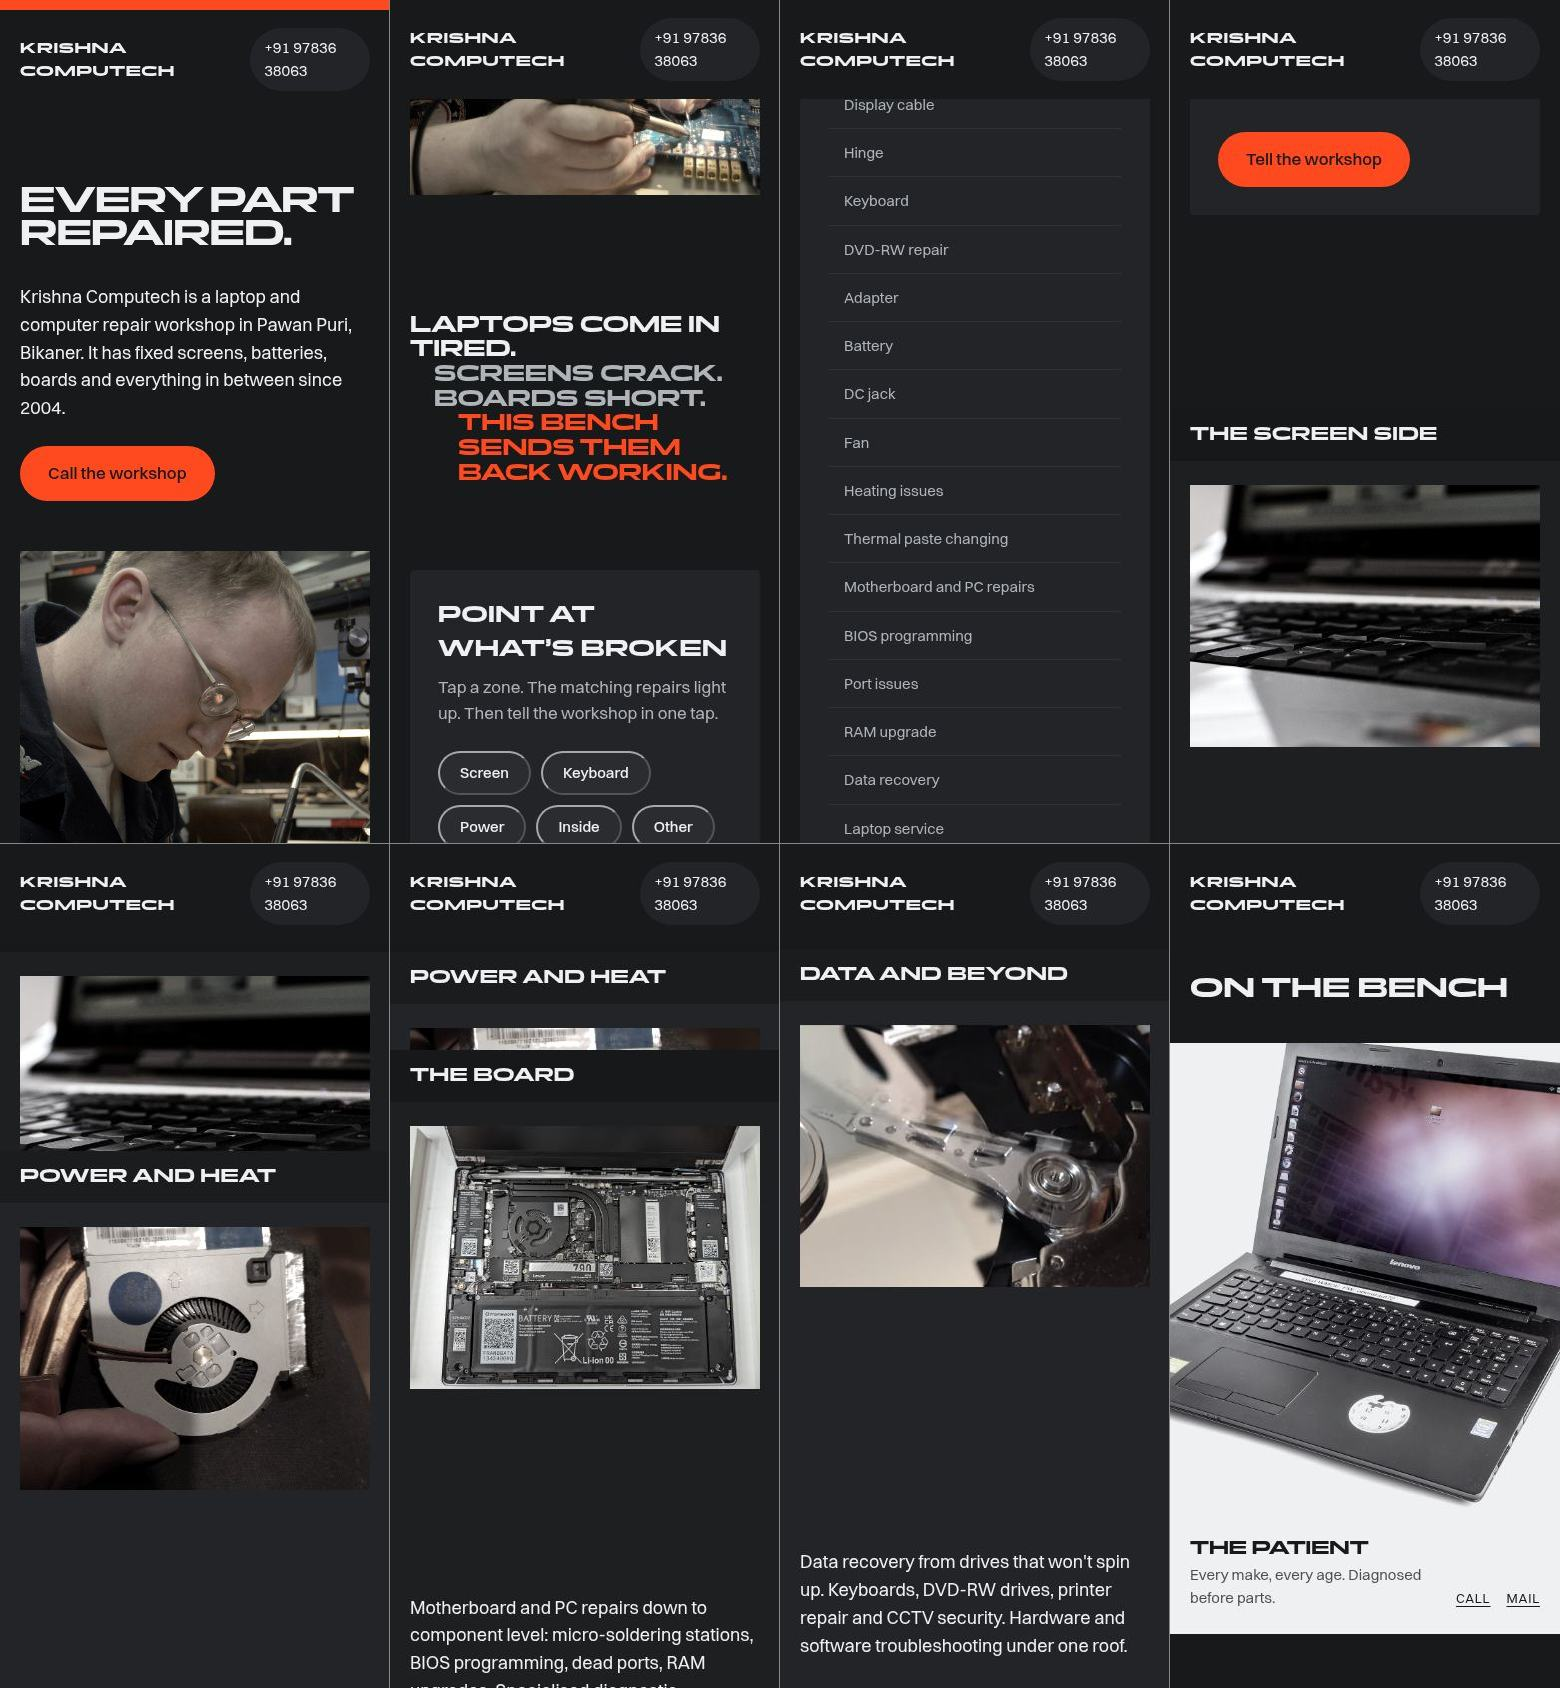
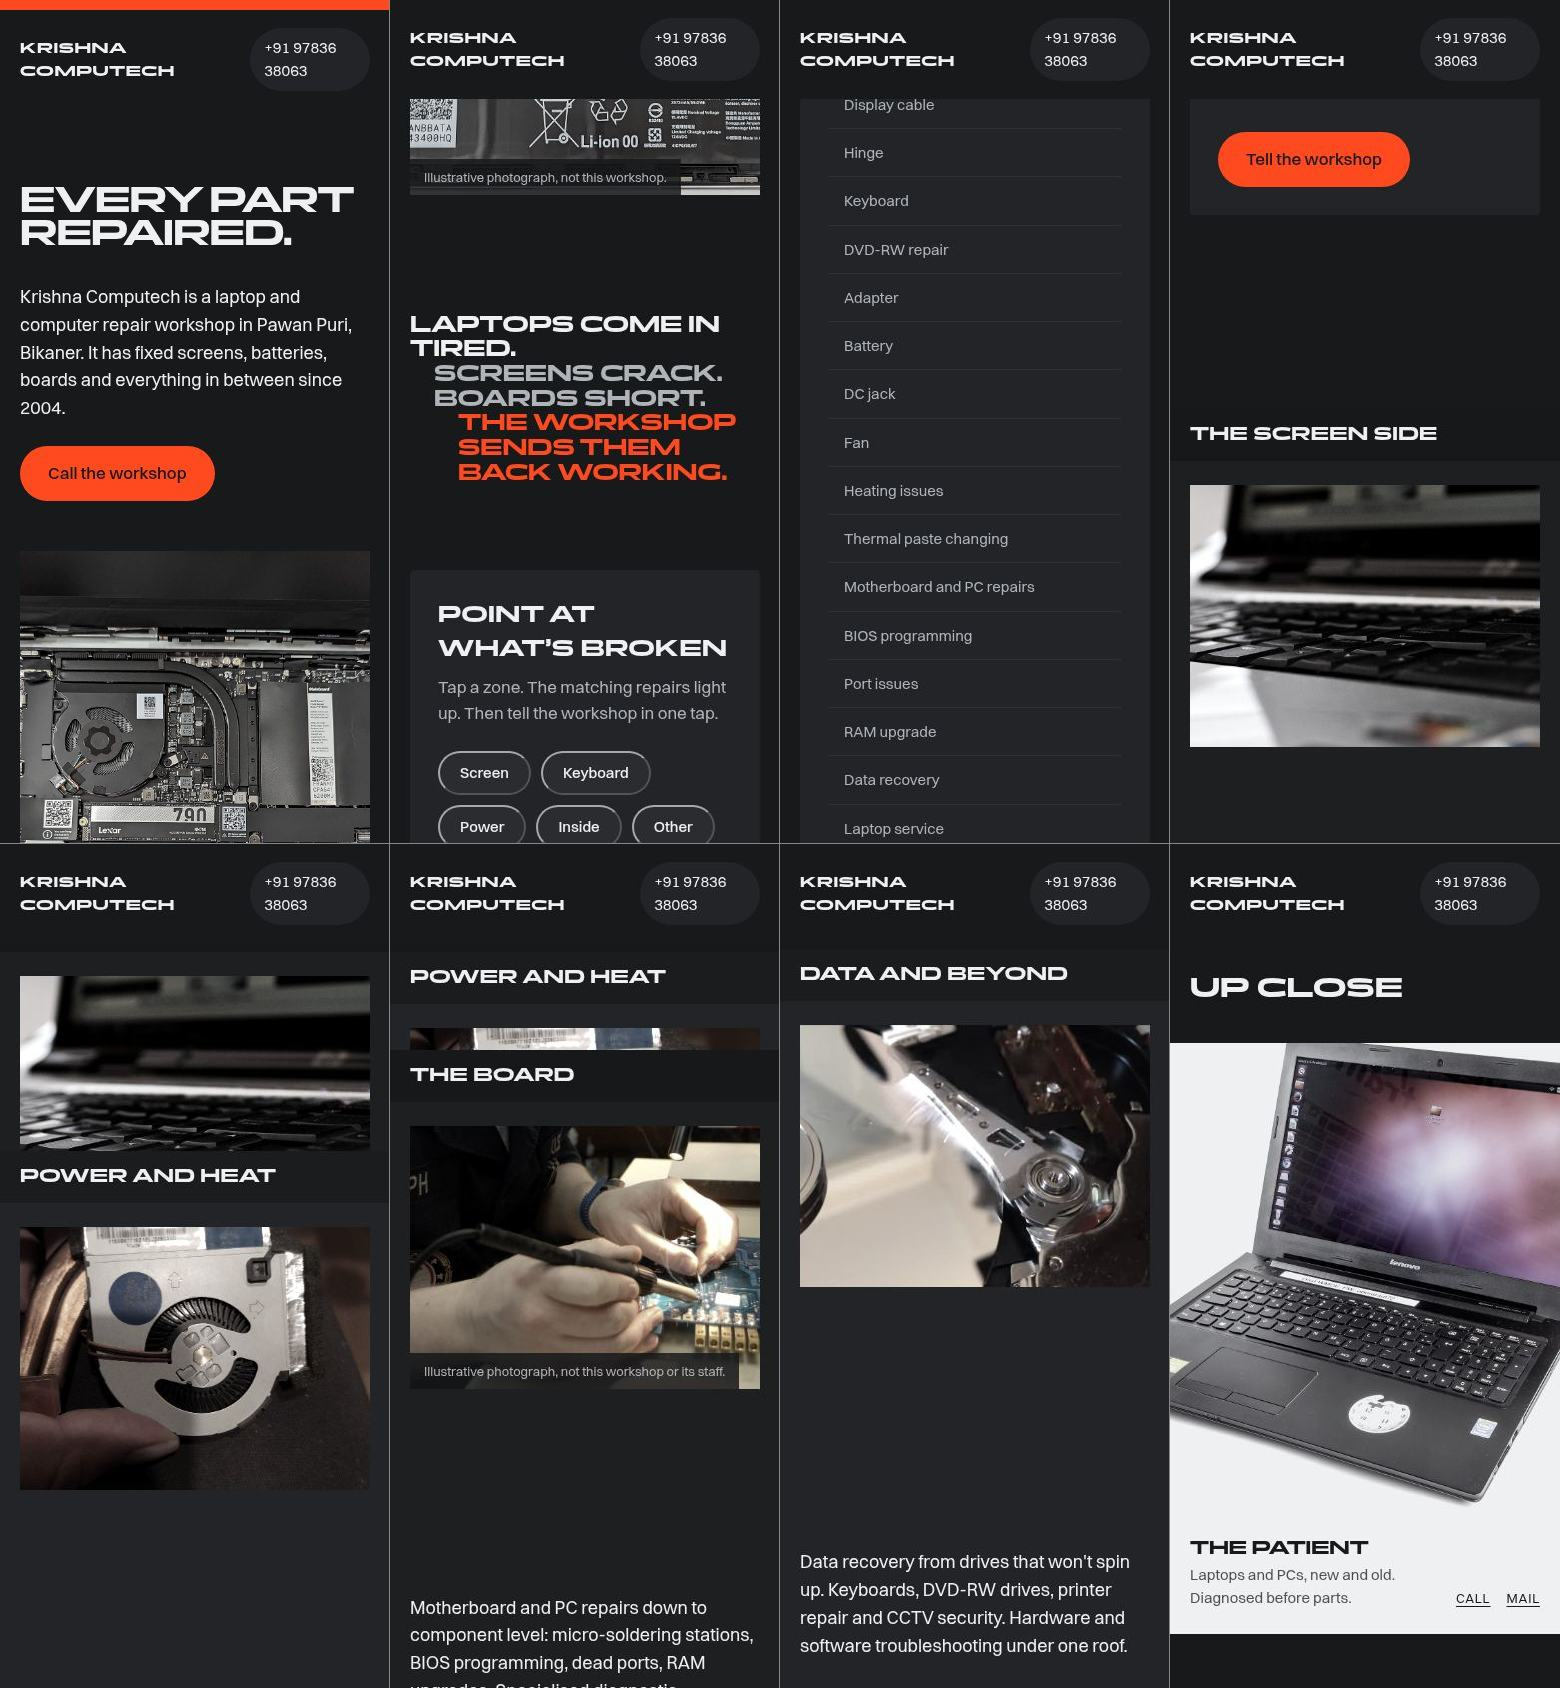
V45 corrections: concept-preview disclaimer, illustrative-photo labels, person-free hero, softened claims

diff --git a/krishna-computech-bikaner/index.html b/krishna-computech-bikaner/index.html
@@ -17,7 +17,7 @@
   <a class="wordmark" href="#top">Krishna Computech</a>
   <nav class="site-nav" aria-label="Sections">
     <a href="#work">The work</a>
-    <a href="#bench">The bench</a>
+    <a href="#bench">Up close</a>
     <a href="#visit">Visit</a>
   </nav>
   <a class="head-call" href="tel:+919783638063">+91 97836 38063</a>
@@ -36,7 +36,8 @@
       <a class="btn" href="tel:+919783638063">Call the workshop</a>
     </div>
     <figure class="hero-photo">
-      <img src="assets/us-navy-070129-n-3038w-073-electronics.jpg" alt="A technician soldering a circuit board under a bench lamp" width="1920" height="2868">
+      <img src="assets/framework-laptop-13-2023-amd-ryzen-internal.jpg" alt="The inside of an opened laptop: motherboard, battery and cooling system" width="1920" height="1446">
+      <figcaption class="photo-cap">Illustrative photograph, not this workshop.</figcaption>
     </figure>
   </section>
 
@@ -45,7 +46,7 @@
     <div class="stair">
       <p class="stair-line">Laptops come in tired.</p>
       <p class="stair-line">Screens crack. Boards short.</p>
-      <p class="stair-line">This bench sends them back working.</p>
+      <p class="stair-line">The workshop sends them back working.</p>
     </div>
 
     <div class="diag" aria-labelledby="diag-title">
@@ -103,7 +104,7 @@
       <header class="sheet-band"><h2>The board</h2></header>
       <div class="sheet-body">
         <p class="sheet-copy">Motherboard and PC repairs down to component level: micro-soldering stations, BIOS programming, dead ports, RAM upgrades. Specialised diagnostic equipment finds the fault before a single part is ordered.</p>
-        <figure class="sheet-photo"><img src="assets/framework-laptop-13-2023-amd-ryzen-internal.jpg" alt="Top-down view of an opened laptop showing the motherboard, battery and cooling system" loading="lazy" decoding="async" width="1920" height="1446"></figure>
+        <figure class="sheet-photo"><img src="assets/bench-soldering-hands.jpg" alt="Hands soldering a circuit board under a bench lamp" loading="lazy" decoding="async" width="1920" height="1290"><figcaption class="photo-cap">Illustrative photograph, not this workshop or its staff.</figcaption></figure>
       </div>
     </article>
     <article class="sheet" style="--i:3">
@@ -121,14 +122,14 @@
 
   <!-- SHOWCASE: two objects, two fields -->
   <section class="showcase" id="bench">
-    <h2 class="showcase-head">On the bench</h2>
+    <h2 class="showcase-head">Up close</h2>
     <div class="panels">
       <article class="panel panel-light">
         <figure class="panel-photo"><img src="assets/lenovo-g500s-laptop-2903.jpg" alt="An opened laptop photographed against a white background" loading="lazy" decoding="async" width="1920" height="1440"></figure>
         <div class="panel-row">
           <div>
             <h3>The patient</h3>
-            <p>Every make, every age. Diagnosed before parts.</p>
+            <p>Laptops and PCs, new and old. Diagnosed before parts.</p>
           </div>
           <div class="panel-actions">
             <a href="tel:+919783638063">Call</a>
@@ -141,7 +142,7 @@
         <div class="panel-row">
           <div>
             <h3>The board</h3>
-            <p>Component-level repair, not board-level replacement.</p>
+            <p>Component-level repair: micro-soldering and BIOS work.</p>
           </div>
           <div class="panel-actions">
             <a href="tel:+919783638063">Call</a>
@@ -175,11 +176,11 @@
       </div>
       <div class="foot-col">
         <h2>Credits</h2>
-        <p class="credits">Photographs: U.S. Navy (public domain); Carissa Rogers, CC&nbsp;BY&nbsp;2.0; Flanoz, CC0; Ogidya, CC&nbsp;BY&nbsp;4.0; Evan-Amos, CC&nbsp;BY-SA&nbsp;3.0; Raimond Spekking and Siarhei Besarab, CC&nbsp;BY-SA&nbsp;4.0; film: Fletcher6, CC&nbsp;BY&nbsp;4.0. All via Wikimedia Commons. Type: Panchang and Switzer, Fontshare.</p>
+        <p class="credits">Photographs: U.S. Navy (public domain); Carissa Rogers, CC&nbsp;BY&nbsp;2.0; Flanoz, CC0; Ogidya, CC&nbsp;BY&nbsp;4.0; Raimond Spekking and Siarhei Besarab, CC&nbsp;BY-SA&nbsp;4.0; film: Fletcher6, CC&nbsp;BY&nbsp;4.0. All via Wikimedia Commons. Type: Panchang and Switzer, Fontshare.</p>
       </div>
     </div>
     <div class="foot-word" aria-hidden="true">Krishna</div>
-    <p class="foot-fine">Krishna Computech, Bikaner. Repairing laptops and PCs since 2004.</p>
+    <p class="foot-fine">Concept preview. Enquiries only, not a booking service. Photographs are illustrative stock images from Wikimedia Commons, not this workshop or its staff. Listing source: threebestrated.in.<br>Krishna Computech, Bikaner. Repairing laptops and PCs since 2004.</p>
   </footer>
 
 </main>

diff --git a/krishna-computech-bikaner/style.css b/krishna-computech-bikaner/style.css
@@ -83,10 +83,16 @@ a{color:inherit}
   margin-top:clamp(32px,6vh,72px);
   height:clamp(300px,58vh,560px);
   overflow:hidden;
+  position:relative;
   transform:translateY(60px);opacity:0;
 }
+.photo-cap{
+  position:absolute;left:0;bottom:0;
+  background:rgba(24,25,27,.85);color:var(--muted);
+  font-size:13px;padding:8px 14px;
+}
 .hero-photo img{
-  width:100%;height:100%;object-fit:cover;object-position:center 40%;
+  width:100%;height:100%;object-fit:cover;object-position:center center;
   filter:saturate(.35) contrast(1.05);
 }
 
@@ -167,7 +173,7 @@ a{color:inherit}
   padding-bottom:8px;
   align-self:end;
 }
-.sheet-photo{grid-column:7 / 13;min-height:52vh;overflow:hidden}
+.sheet-photo{grid-column:7 / 13;min-height:52vh;overflow:hidden;position:relative}
 .sheet-photo img,.sheet-photo video{
   width:100%;height:100%;object-fit:cover;
   filter:saturate(.35) contrast(1.05);
@@ -252,7 +258,8 @@ a{color:inherit}
   user-select:none;
 }
 .foot-fine{
-  text-align:center;color:var(--muted);font-size:13px;margin-top:24px;
+  text-align:center;color:var(--muted);font-size:13px;margin:24px auto 0;
+  max-width:72ch;
 }
 
 /* ---------- entrances ---------- */
